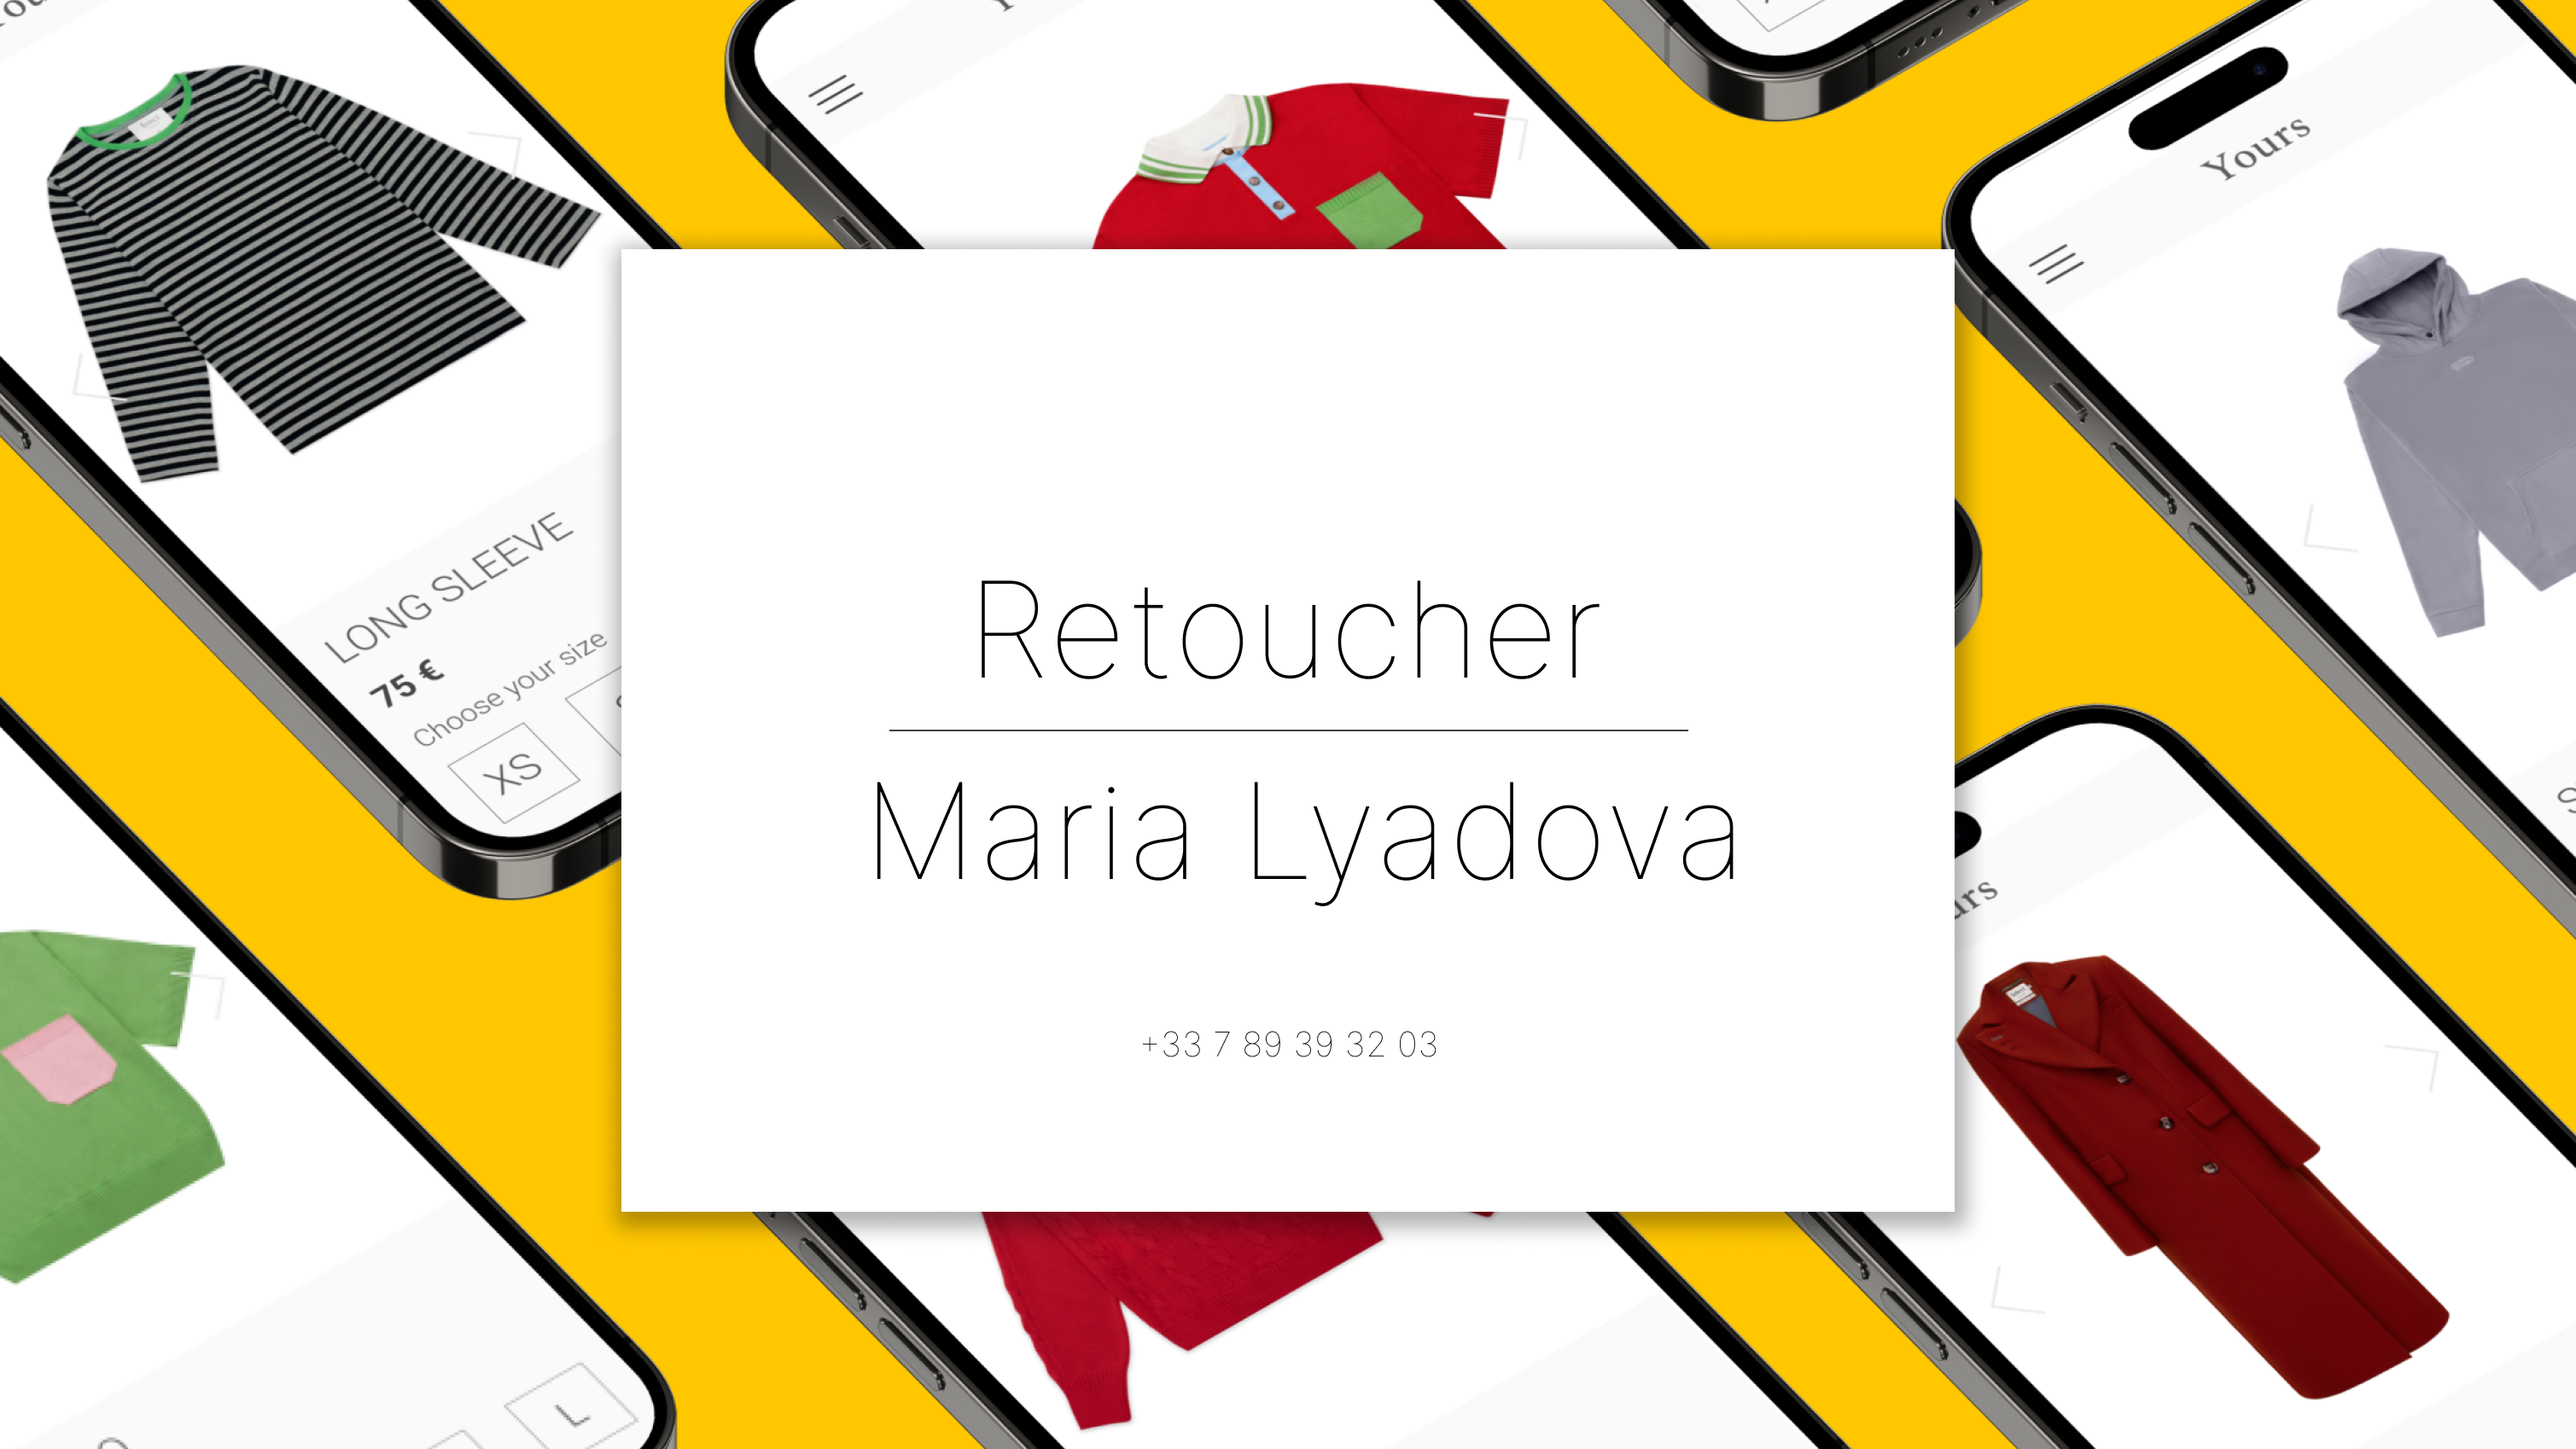
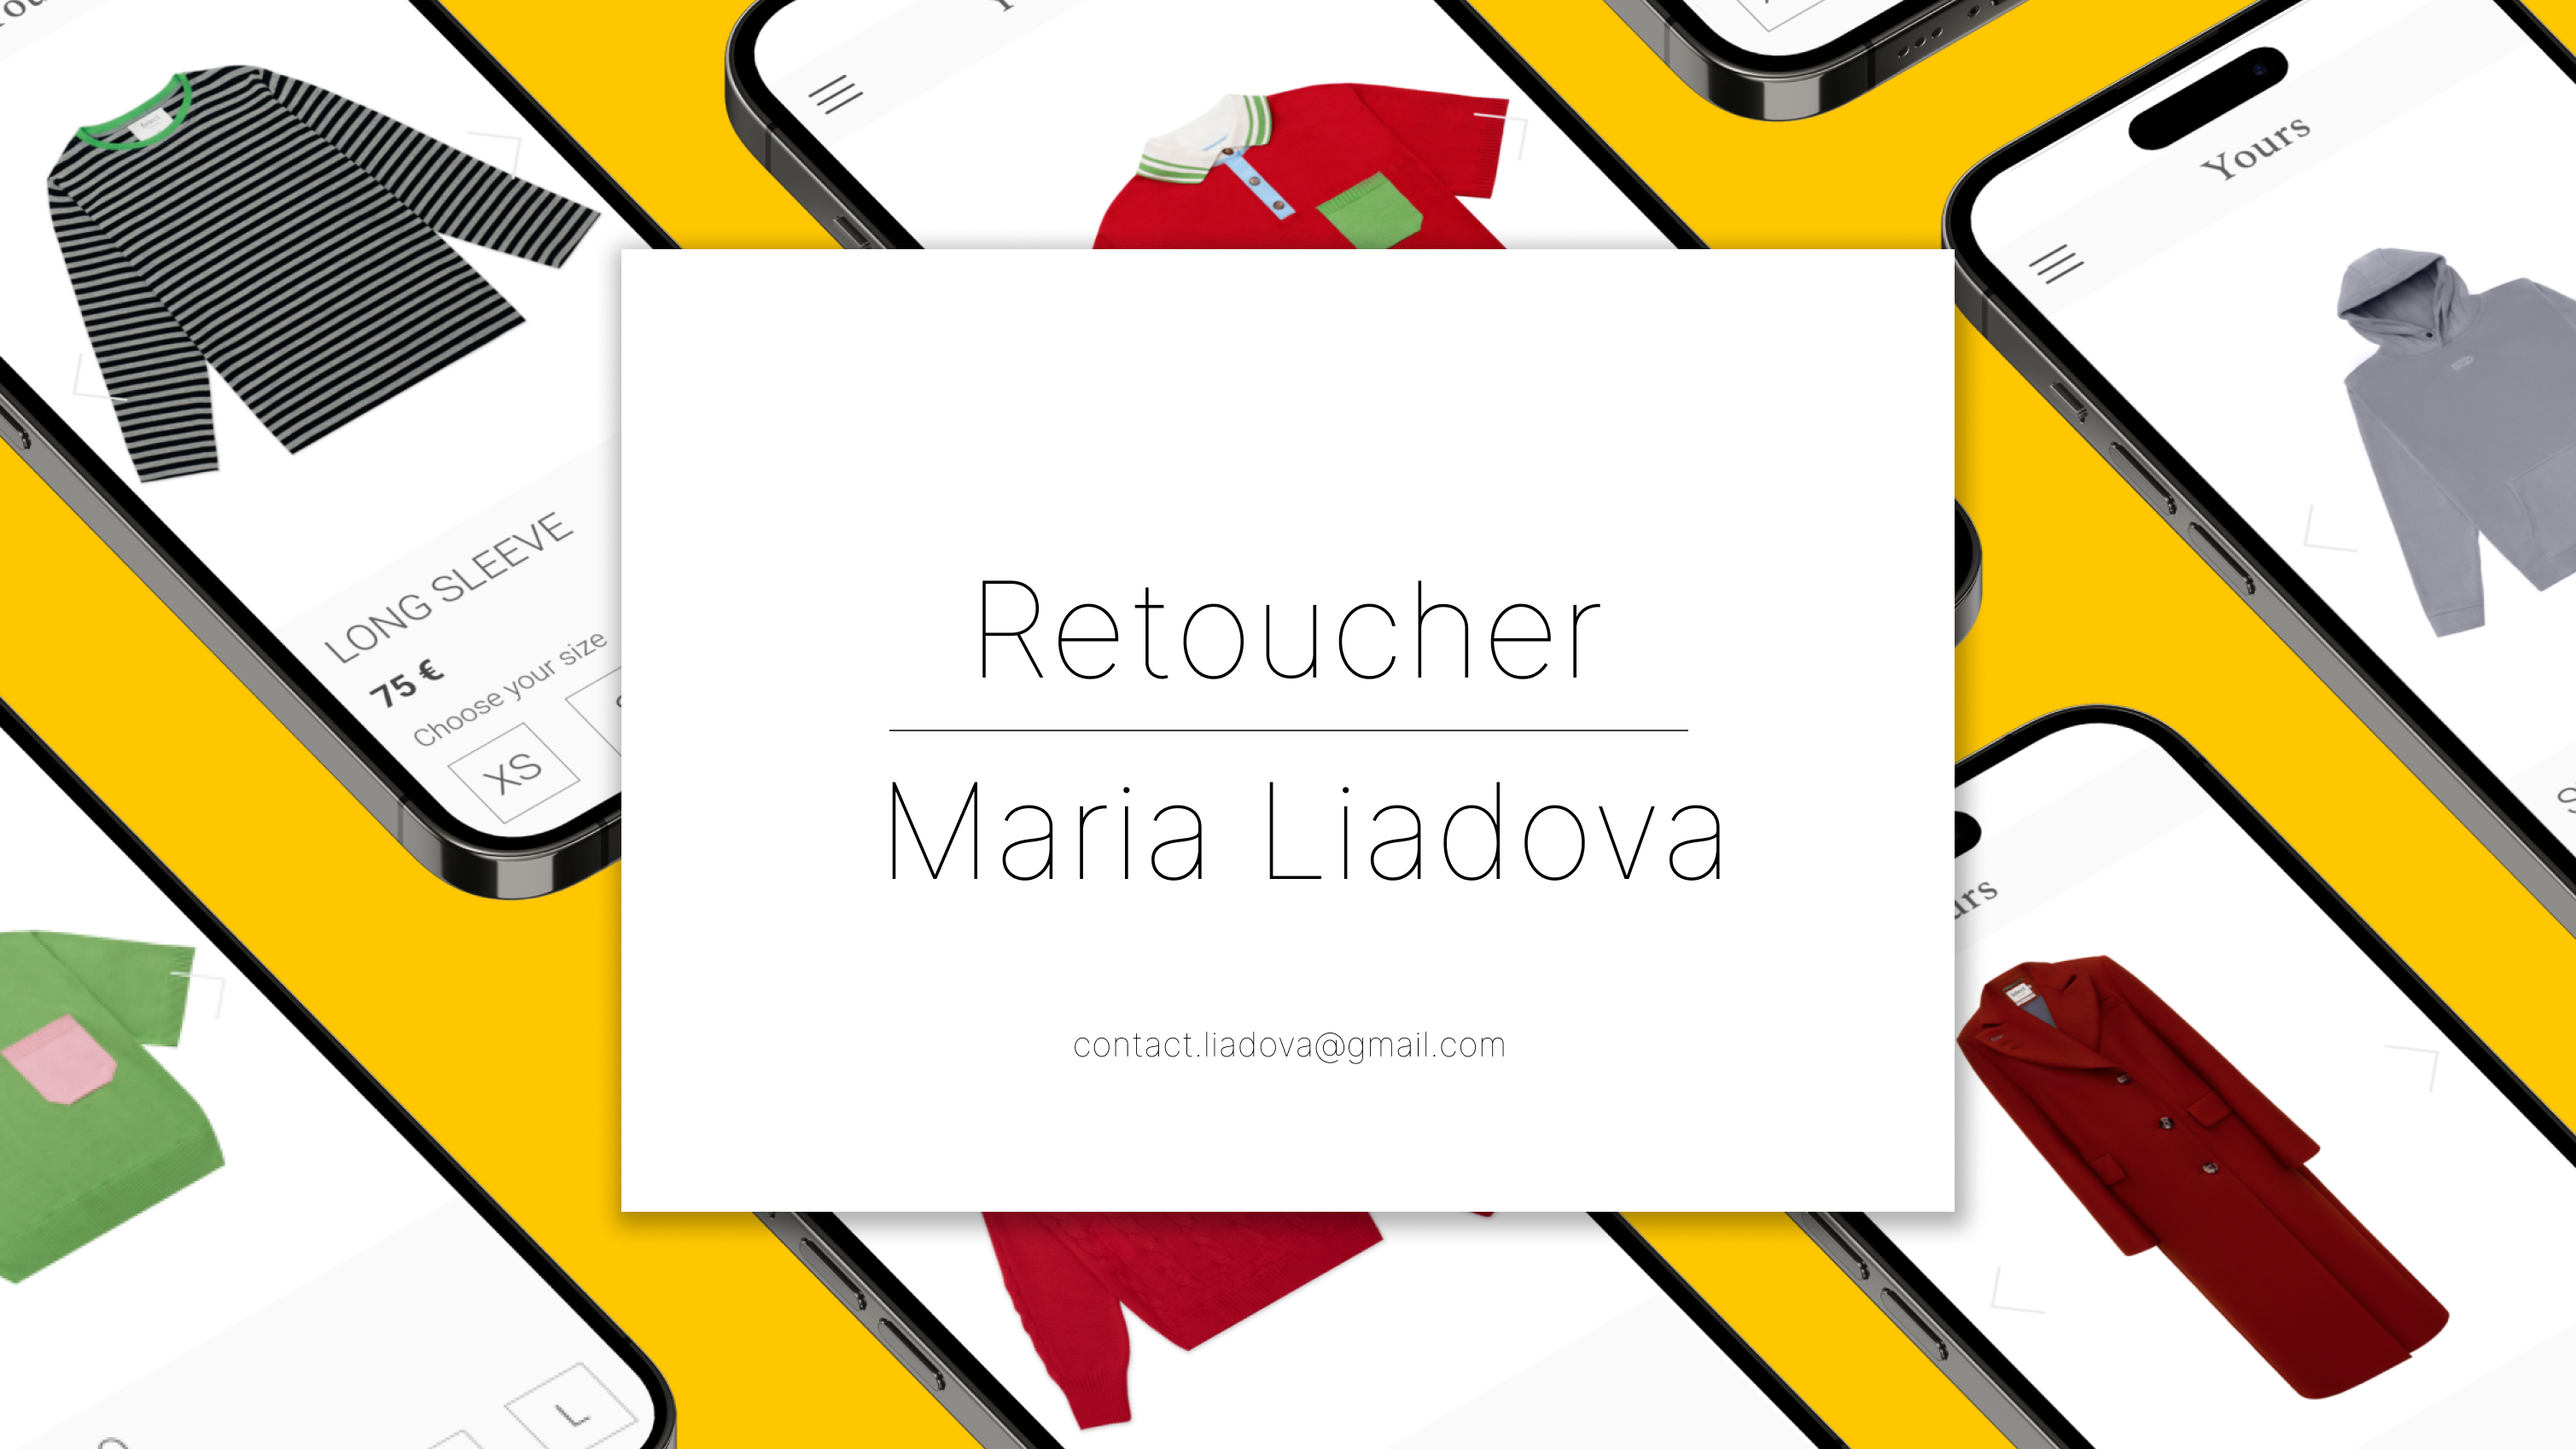
new pic

Changed region(s): [[0.3426, 0.5306, 0.6852, 0.6243], [0.4672, 0.7179, 0.5295, 0.7491]]

diff --git a/retouch/main.js b/retouch/main.js
@@ -42,7 +42,7 @@ const photos = [
   { src: 'assets/13.png', title: 'Retouch 13' },
   { src: 'assets/14.png', title: 'Retouch 14' },
   { src: 'assets/15.png', title: 'Retouch 15' },
-  { src: 'assets/16.png', title: 'Retouch 16' },
+  { src: 'assets/16.png?v=2', title: 'Retouch 16' },
 ];
 
 // ───── Render full-screen vertical gallery ─────

diff --git a/retouch/index.html b/retouch/index.html
@@ -68,6 +68,6 @@
 
   </nav>
 
-  <script src="main.js?v=4"></script>
+  <script src="main.js?v=5"></script>
 </body>
 </html>
